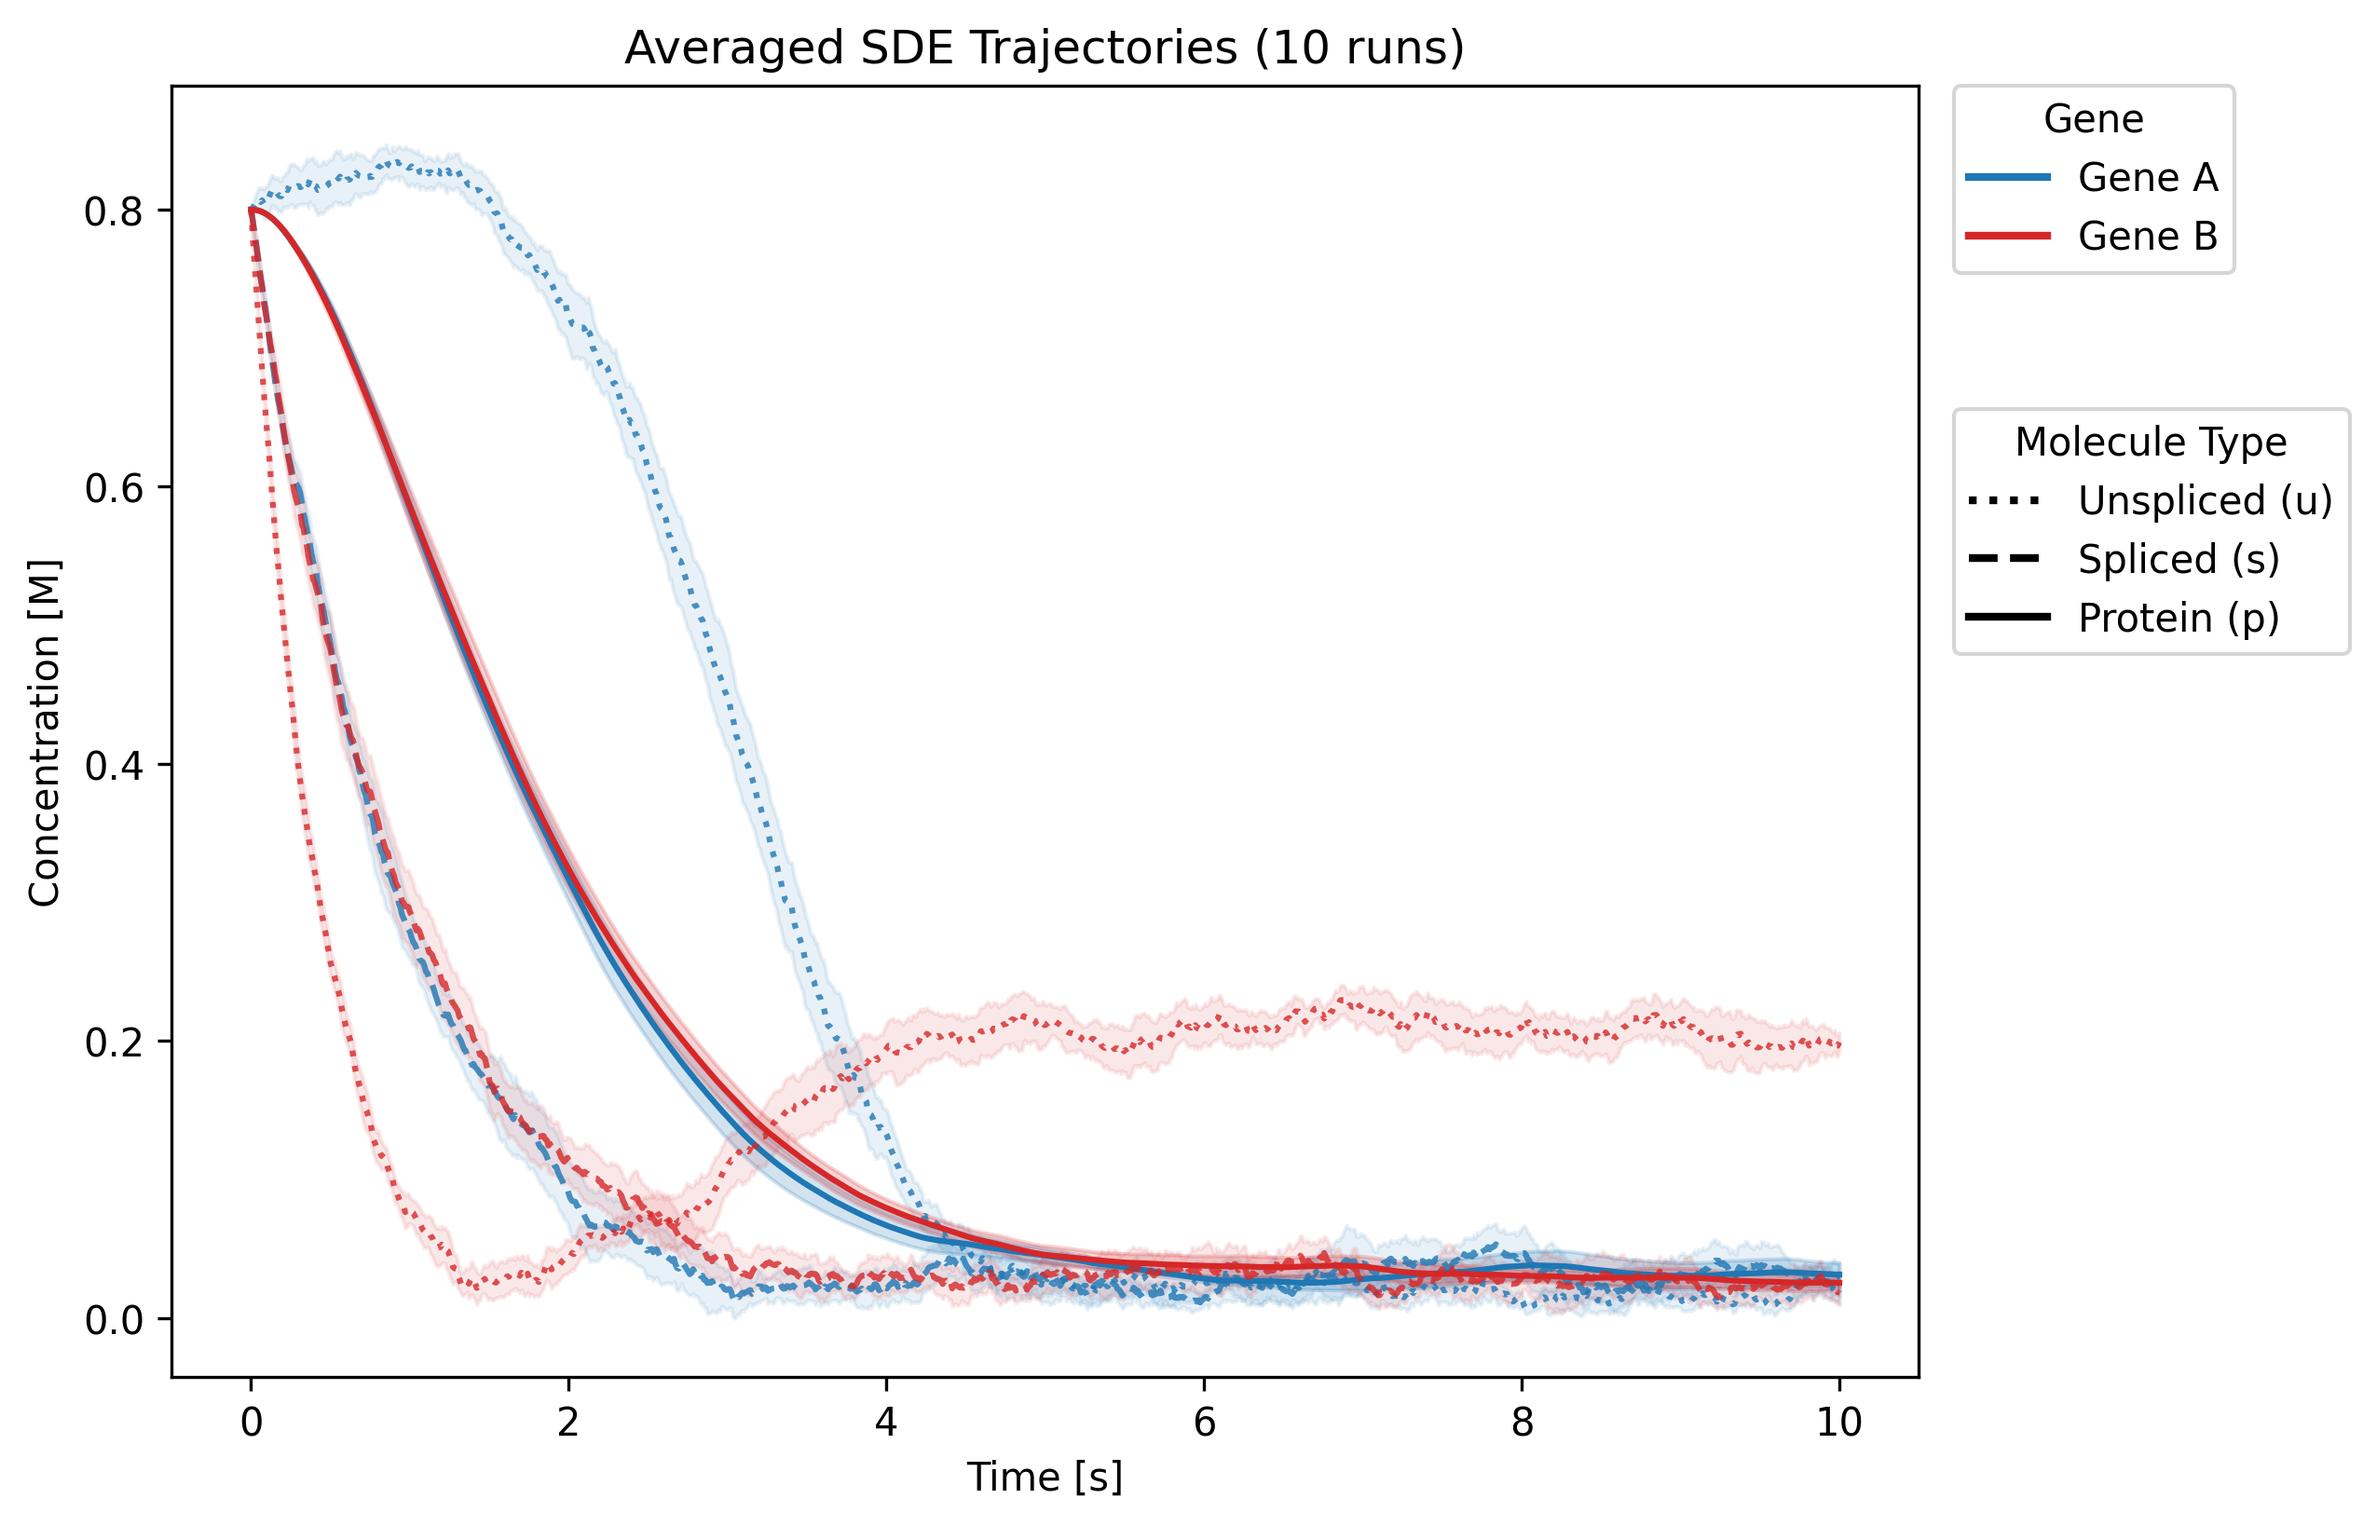
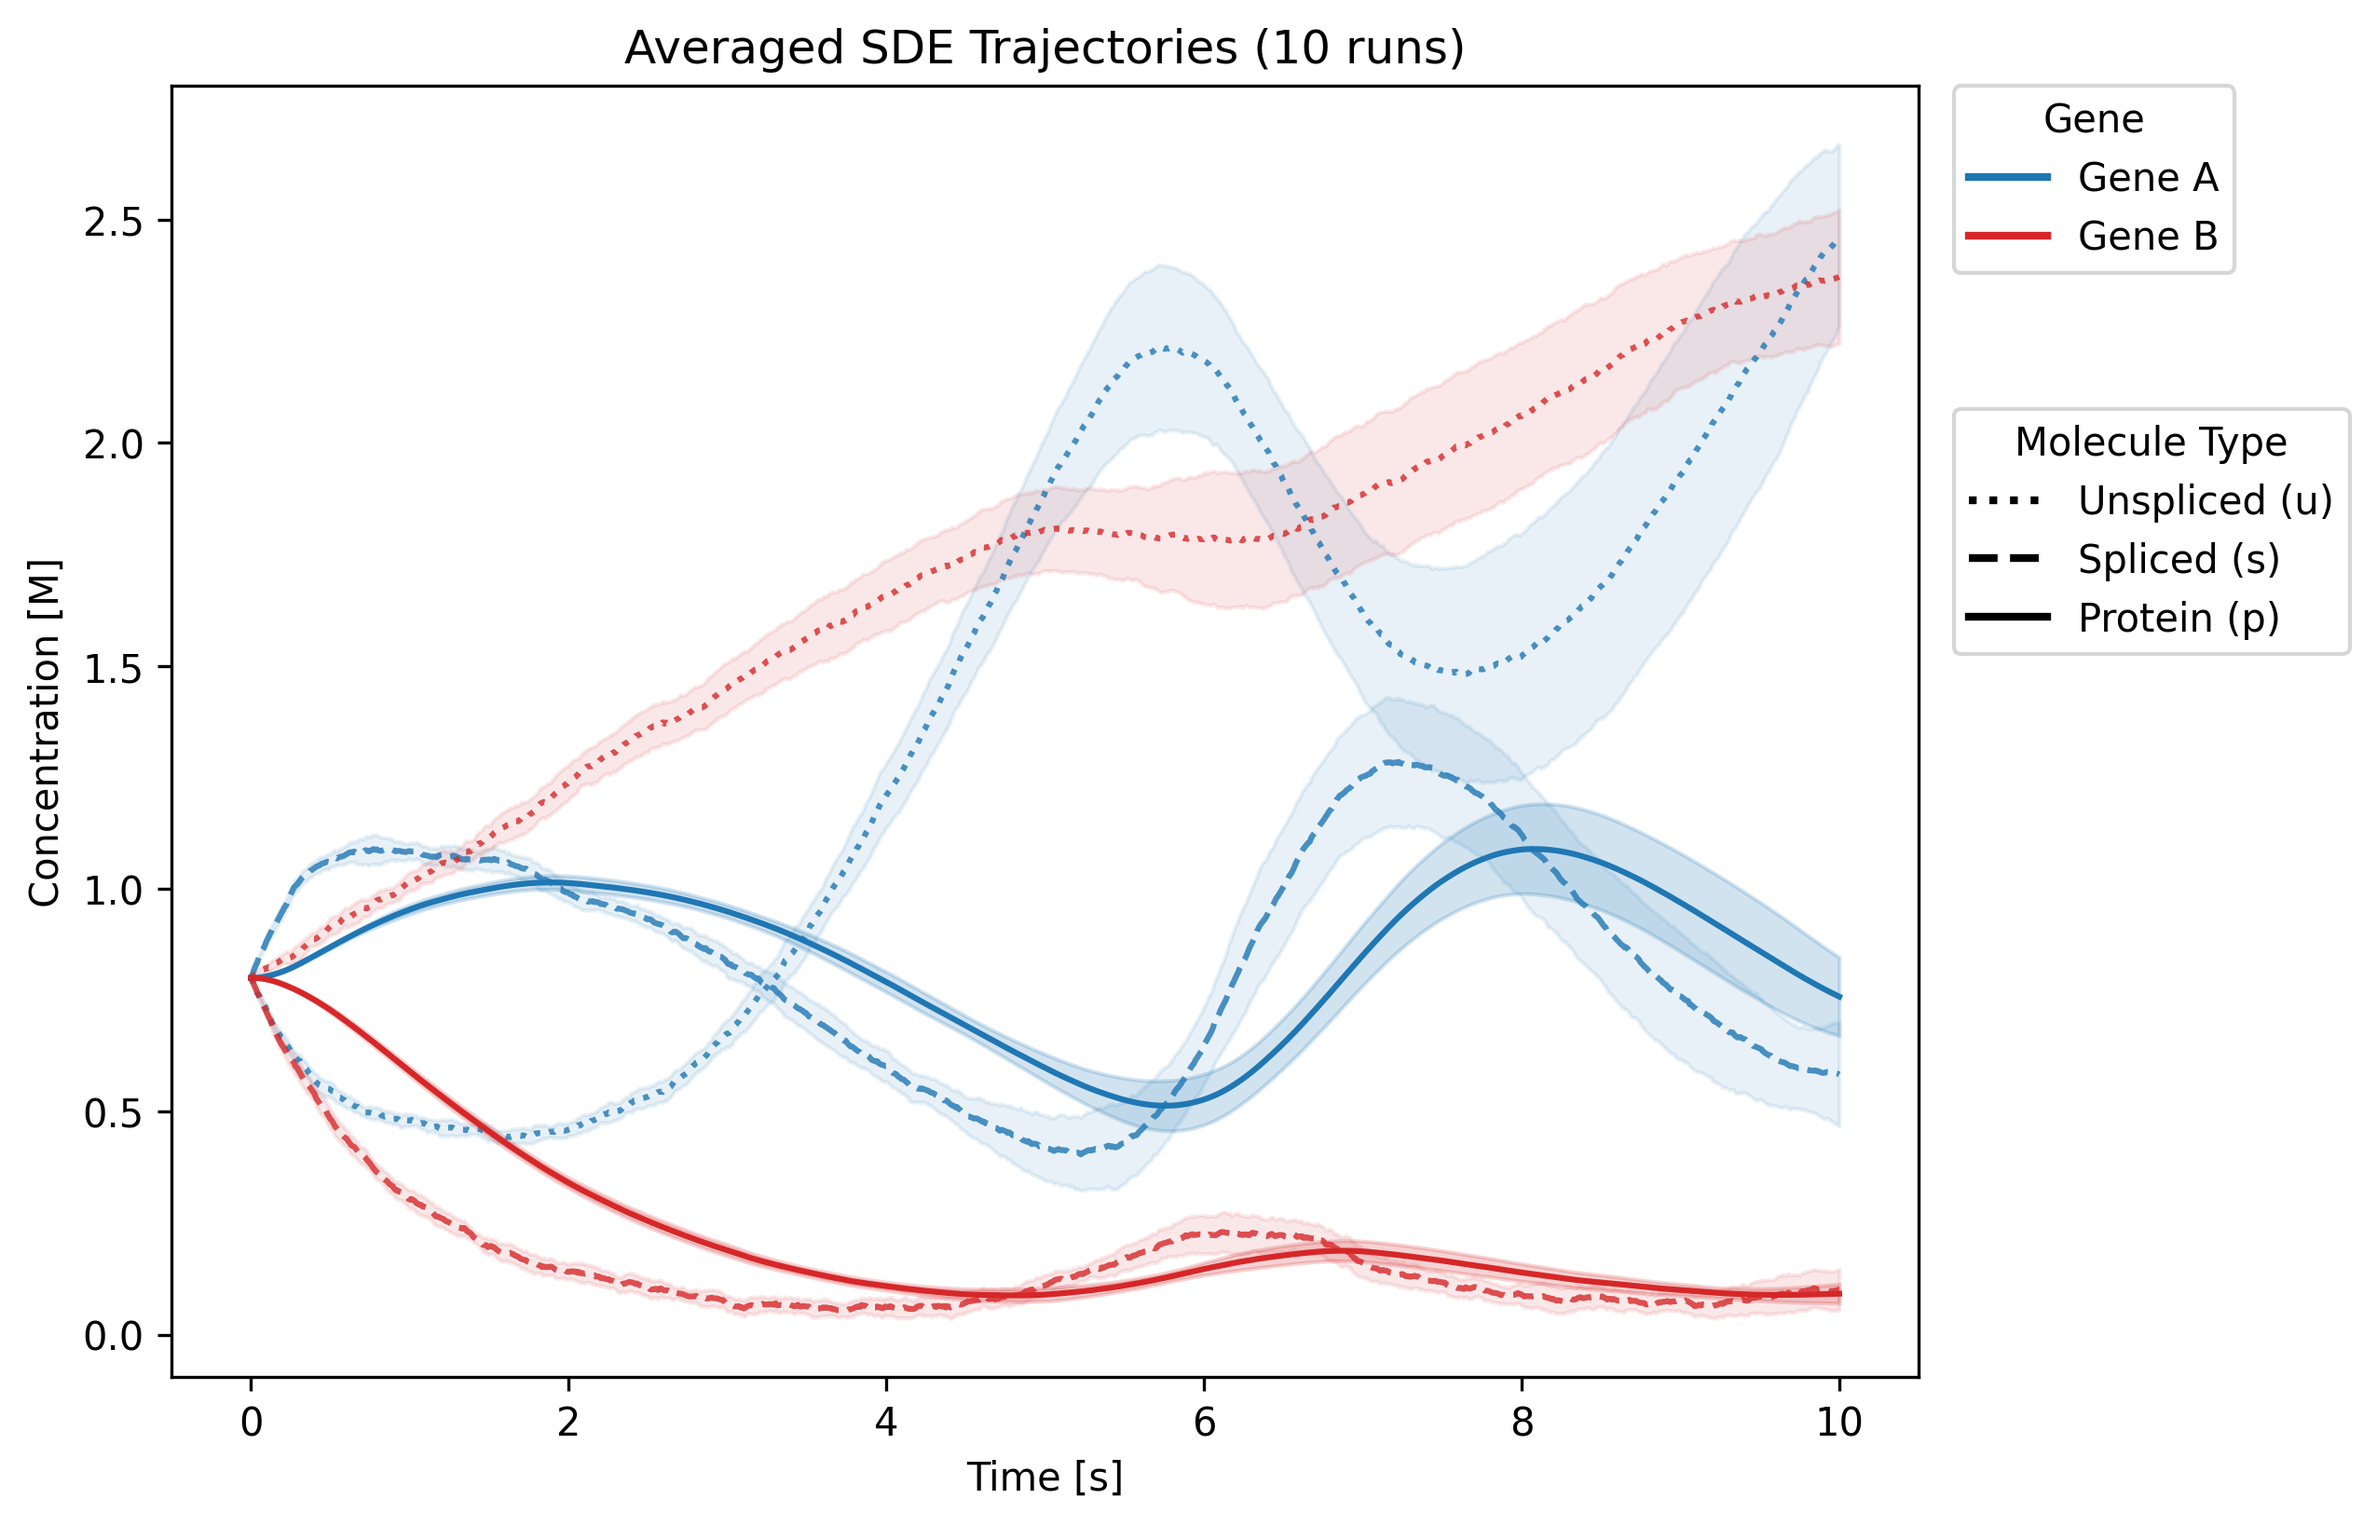
fix SDEVelo

diff --git a/assignment2/main.py b/assignment2/main.py
@@ -305,7 +305,7 @@ beta = np.array([2.35, 2.35])
 gamma = np.array([1.0, 1.0])
 n = np.array([3, 3])
 theta = np.array([0.21, 0.21])
-k_p = np.array([1.0, 1.0])
+k_P = np.array([1.0, 1.0])
 m = np.array([2.35, 2.35])
 delta = np.array([1.0, 1.0])
 sigma_1 = np.array([0.05, 0.05])
@@ -326,27 +326,28 @@ def solve_sde_velo(dt, steps):
     p[:, 0] = 0.8
 
     for i in range(steps - 1):
+        alpha = c / (1 + np.exp(b * (t[i] - a)))
         activation_of_A = hill_activation(p[1, i], theta[1], n[1])
         inhibition_of_B = hill_inhibition(p[0, i], theta[0], n[0])
 
-        beta_star = np.array([c[0] * activation_of_A, c[1] * inhibition_of_B])
-        
+        beta_star = np.array([beta[0] * activation_of_A, beta[1] * inhibition_of_B])
+
         dW1 = np.random.normal(0, np.sqrt(dt), 2)
         dW2 = np.random.normal(0, np.sqrt(dt), 2)
 
-        du = (c - beta * u[:, i]) * dt + sigma_1 * dW1
+        du = (alpha - beta_star * u[:, i]) * dt + sigma_1 * dW1
         u[:, i + 1] = np.maximum(0, u[:, i] + du)
 
-        ds = (b * u[:, i] - gamma * s[:, i]) * dt + sigma_2 * dW2
+        ds = (beta_star * u[:, i] - gamma * s[:, i]) * dt + sigma_2 * dW2
         s[:, i + 1] = np.maximum(0, s[:, i] + ds)
 
-        dp = (k_p * s[:, i] - delta * p[:, i]) * dt
+        dp = (k_P * s[:, i] - delta * p[:, i]) * dt
         p[:, i + 1] = np.maximum(0, p[:, i] + dp)
 
     return u, s, p, t
 
-ra, rb, pA, pB = sol_alpha.y[0], sol_alpha.y[1], sol_alpha.y[2], sol_alpha.y[3]
-u, s, p, t = solve_sde_velo(0.01, 1000)
+# ra, rb, pA, pB = sol_alpha.y[0], sol_alpha.y[1], sol_alpha.y[2], sol_alpha.y[3]
+# u, s, p, t = solve_sde_velo(0.01, 1000)
 
 def plot_ode_sdevelo(sol_ode, sol_sde, label_ode, label_sde, savefig=None):
     ra, rb, pA, pB = sol_ode.y
@@ -369,8 +370,8 @@ def plot_ode_sdevelo(sol_ode, sol_sde, label_ode, label_sde, savefig=None):
         plt.savefig(savefig)
     plt.show()
 
-plot_ode_sdevelo(sol_alpha, solve_sde_velo(0.01, 1000), "Patient Alpha", "Patient Beta")
-plot_ode_sdevelo(sol_alpha_regular, solve_sde_velo(0.01, 1000), "Patient Alpha", "Patient Beta")
+plot_ode_sdevelo(sol_alpha, solve_sde_velo(0.01, 5000), "Patient Alpha", "Patient Beta")
+# plot_ode_sdevelo(sol_alpha_regular, solve_sde_velo(0.01, 1000), "Patient Alpha", "Patient Beta")
 
 
 def sdevelo_multiplot(n_runs, dt, steps, savefig=None):

diff --git a/assignment2/equations.md b/assignment2/equations.md
@@ -27,30 +27,20 @@ where $h^+(P_b, \theta_b, n_b)$ and $h^-(P_a, \theta_a, n_a)$ are hill activatio
 ### SDEVelo
 
 $$\begin{align}
-
-dU_a &= (\alpha_a(t) - \beta\circ U_a(t))dt + \sigma_{1a}dW_1 \\
-
-\alpha(t)_i &= \frac{c_i}{1+\exp b(t-a_i)} \\
-dB_t = dW_t = Z_i\sqrt(\Delta t) \\
-
-\beta_A^* &= \beta_a h^+(p_b, \theta_b, n_b) \\
-
-
-dS_a &= (\beta_a\circ U_a(t) - \gamma_a\circ S_a(t))dt + \sigma_{2a}dW_2 \\
-
-dP_a &= k_A S_a(t) - \sigma_a P_a \\
-
-\beta_b^* &= \beta_b h^+(p_a, \theta_a, n_a) \\
-
-
-\alpha(t)_i = \frac{c_i}{1+\exp b(t-a_i)} \\
-
-B = W_t = \sum_{i=1}^n Z_i\sqrt(\Delta t) \\
-
-
-
+\alpha_A(t) &= \frac{c_a}{1+\exp b_A(t-a_A)} \\
+\beta_A^* &= \beta_A h^+(P_B, \theta_B, n_B) \\
+dU_A &= (\alpha_A(t) - \beta_A^* U_A(t))dt + \sigma_{1A}dW_{1A} \\
+dS_A &= (\beta_A^* U_A(t) - \gamma_A S_A(t))dt + \sigma_{2A}dW_{2A} \\
+dP_A &= (k_{PA} S_A(t) - \delta_{PA} P_A(t))dt \\
 \end{align}$$
 
+$$\begin{align}
+\alpha_B(t) &= \frac{c_B}{1+\exp b_B(t-a_B)} \\
+\beta_B^* &= \beta_B h^-(P_A, \theta_A, n_A) \\
+dU_B &= (\alpha_B(t) - \beta_B^* U_B(t))dt + \sigma_{1B}dW_{1B} \\
+dS_B &= (\beta_B^* U_B(t) - \gamma_B S_B(t))dt + \sigma_{2B}dW_{2B} \\
+dP_B &= (k_{PB} S_B(t) - \delta_{PB} P_B(t))dt \\
+\end{align}$$
 
 ## Question 2
 
